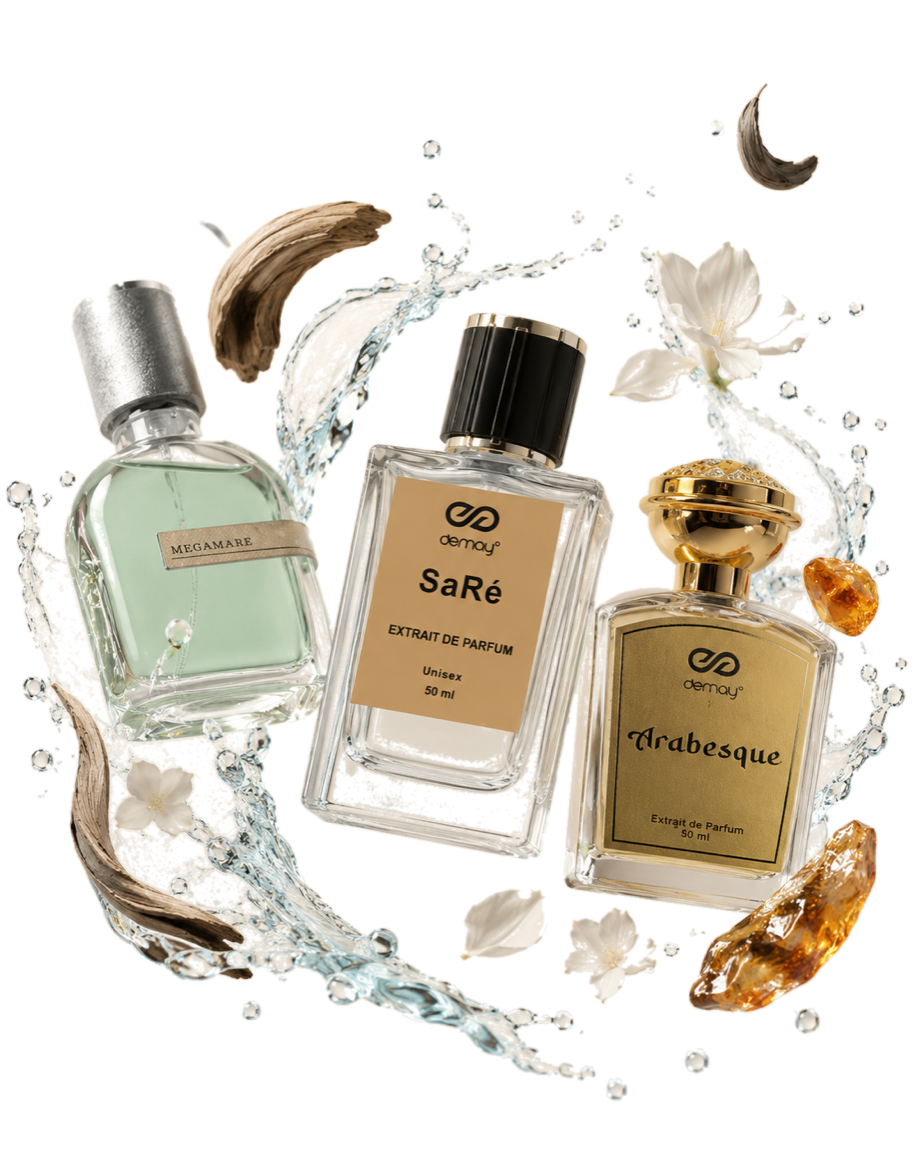
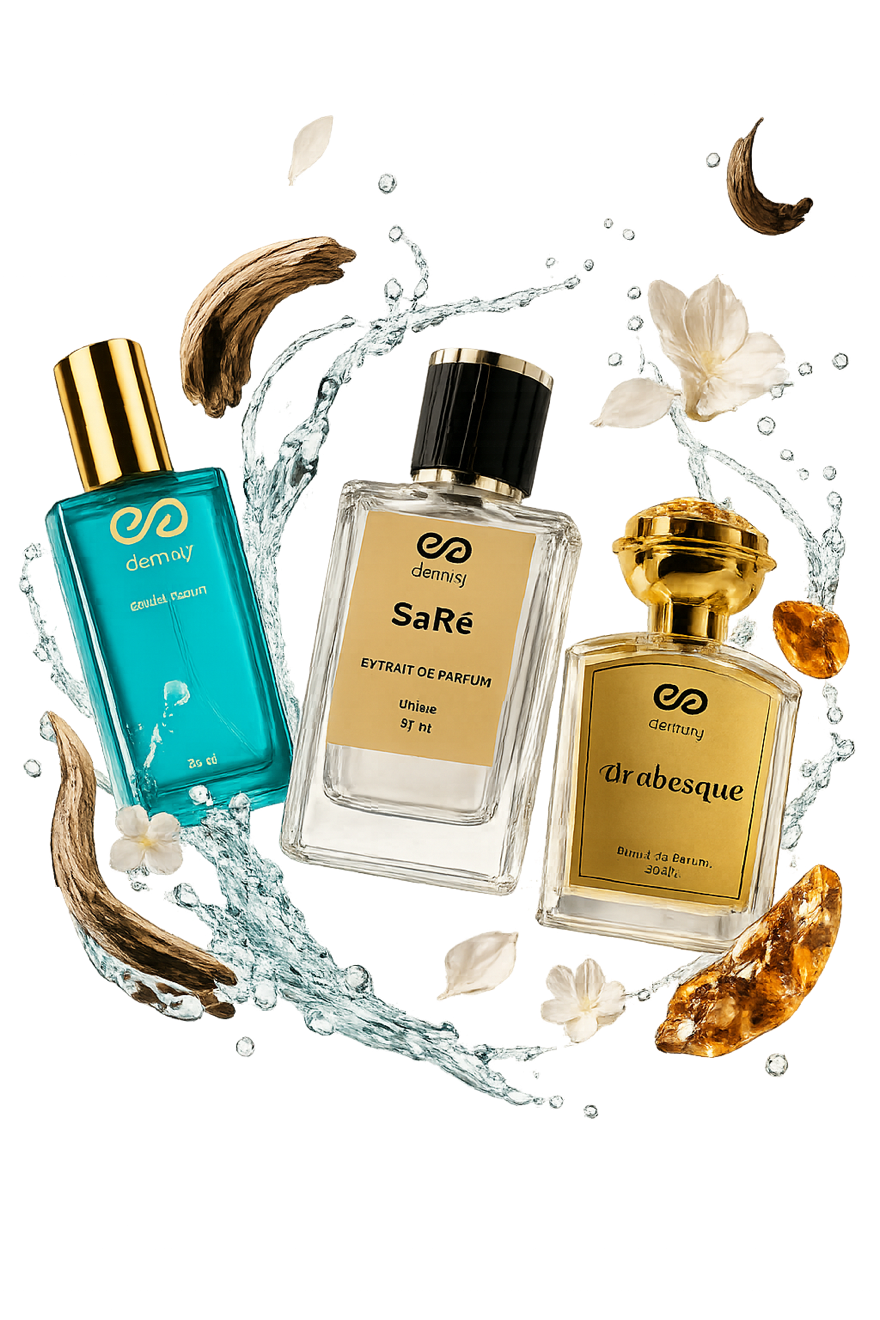
Neue Hero-Grafik (eigene Flakons, transparent, keine Fremdmarke mehr)

diff --git a/index.html b/index.html
@@ -360,7 +360,7 @@
     <!-- HERO-VISUAL: echtes KI-Bild (Hintergrund blendet mit der Hero-Farbe). -->
     <div class="hero-figure reveal d3">
       <div class="glow2" aria-hidden="true"></div>
-      <img src="assets/hero.png" alt="DEMAY Düfte, Boutique Gummersbach" width="920" height="1150" fetchpriority="high">
+      <img src="assets/hero.png" alt="DEMAY Düfte, Boutique Gummersbach" width="880" height="1320" fetchpriority="high">
       <div class="trust-chip">
         <span class="num">15+</span>
         <span class="lbl">Jahre persönliche Dufterfahrung</span>